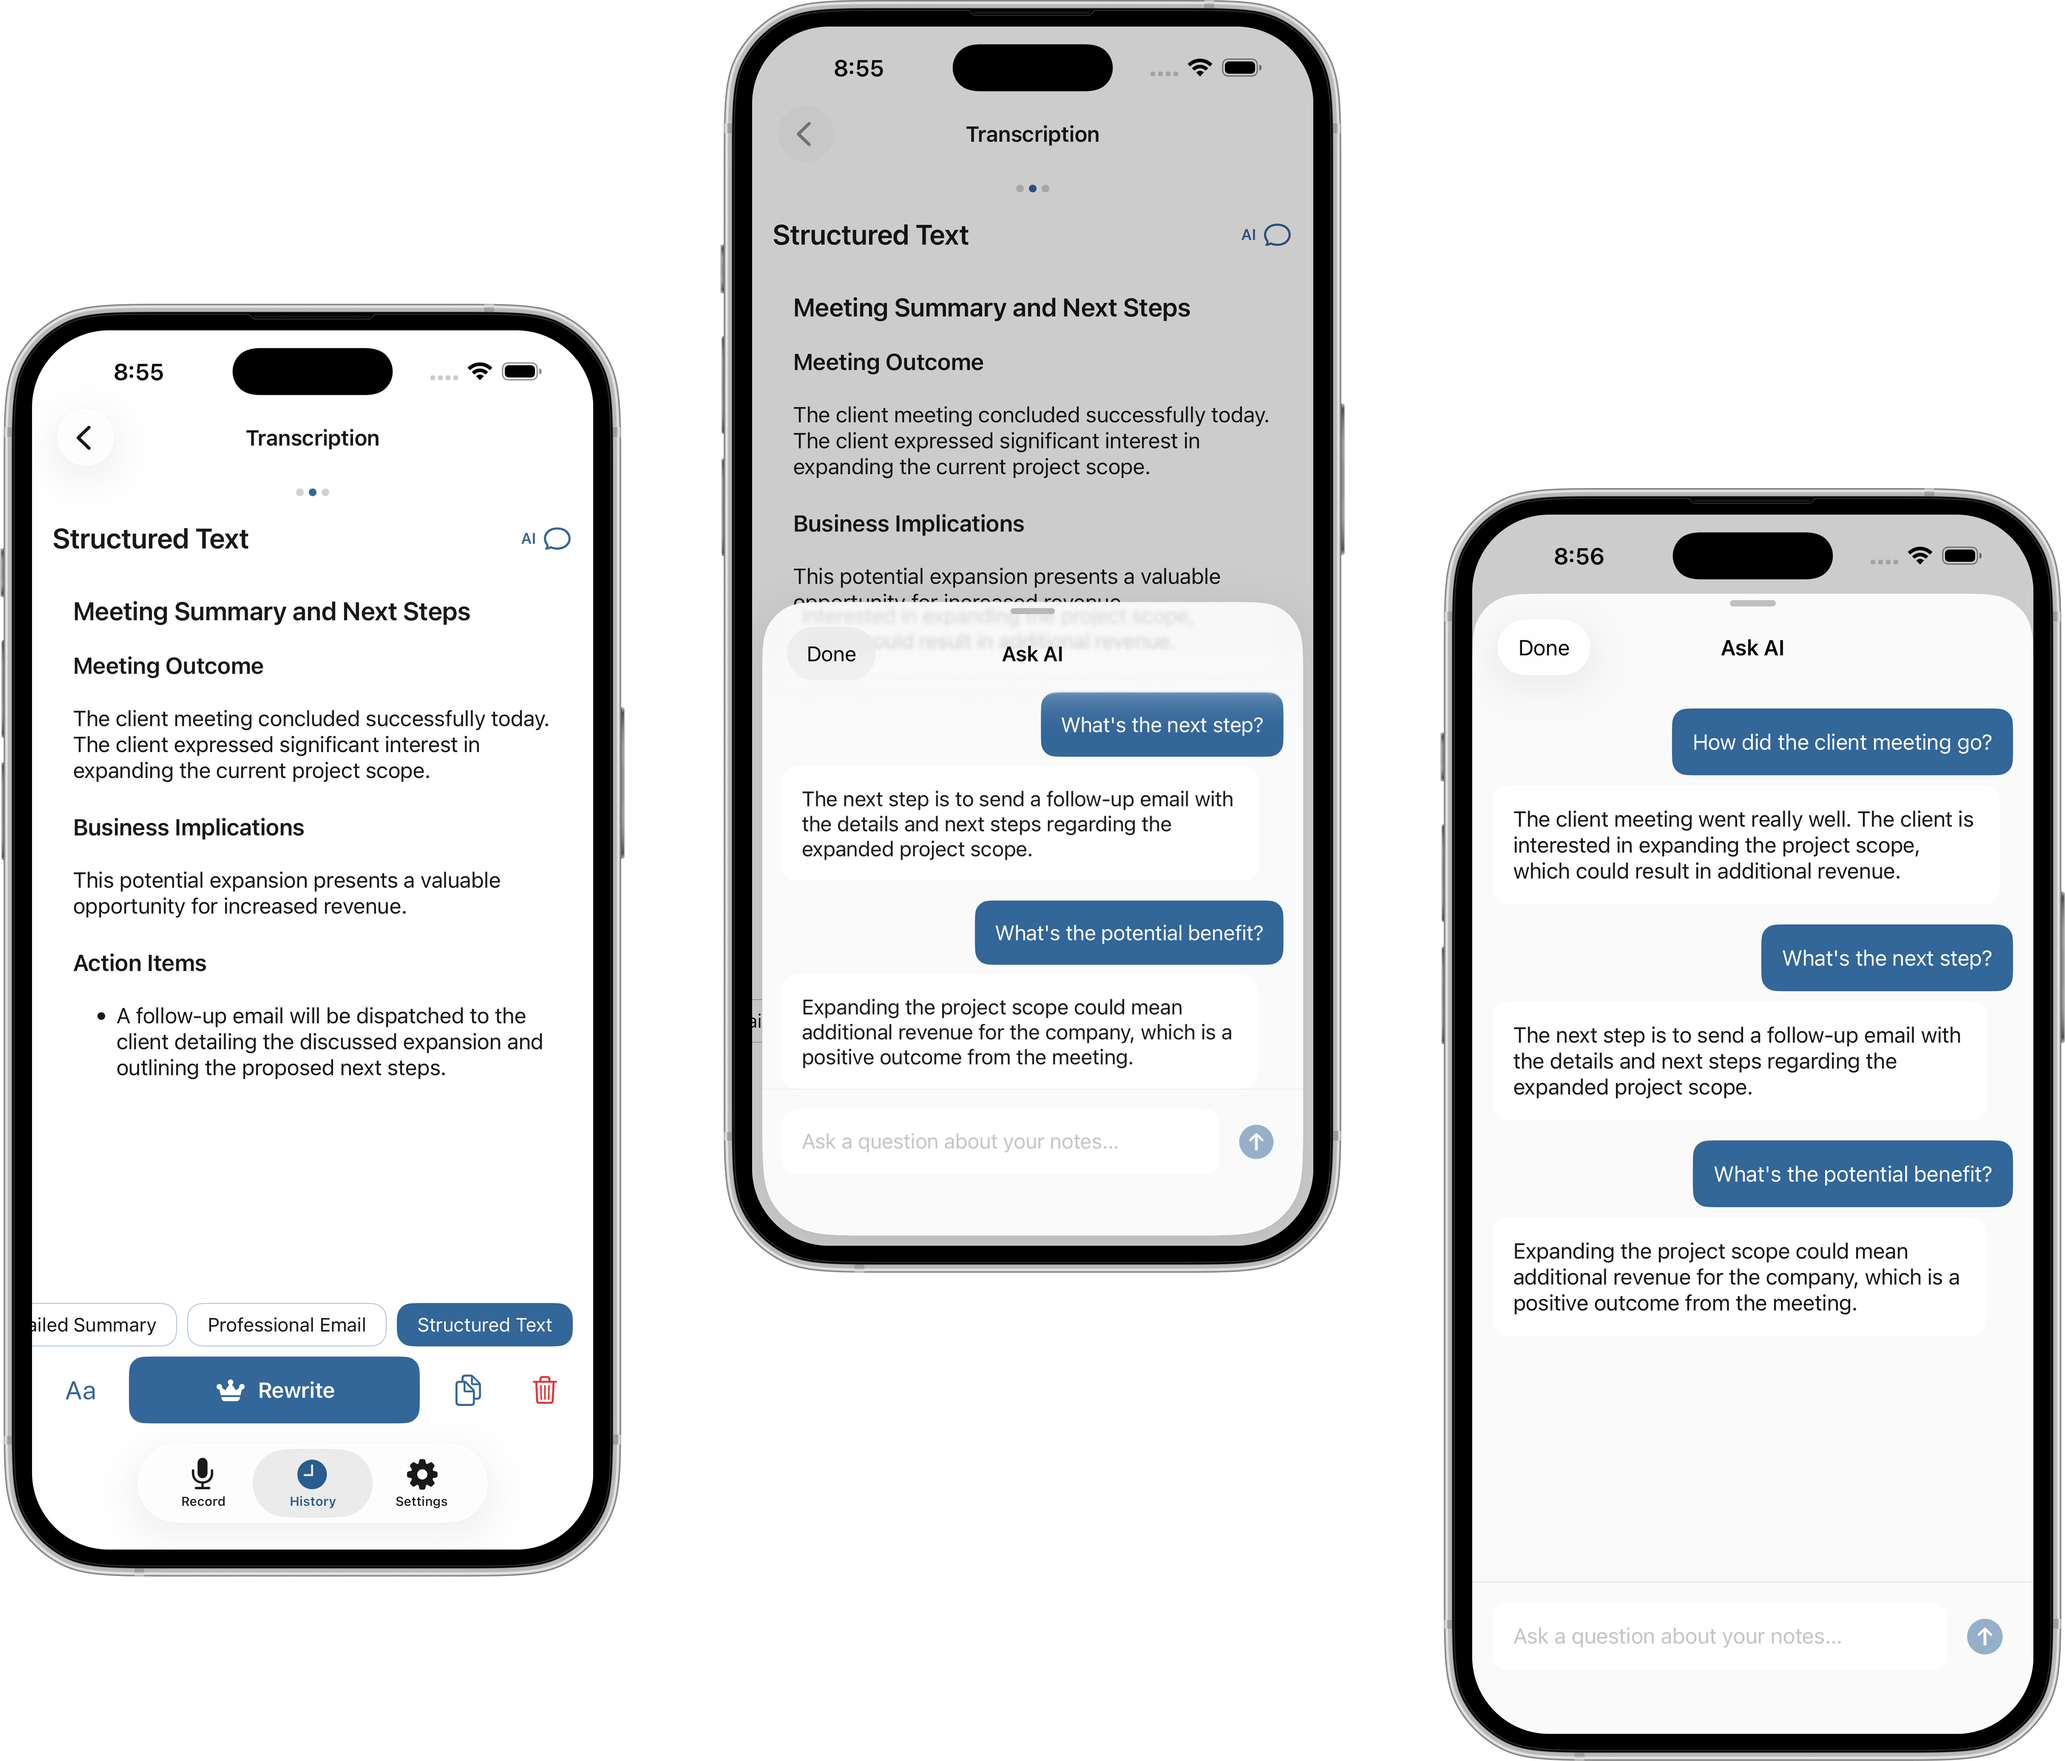
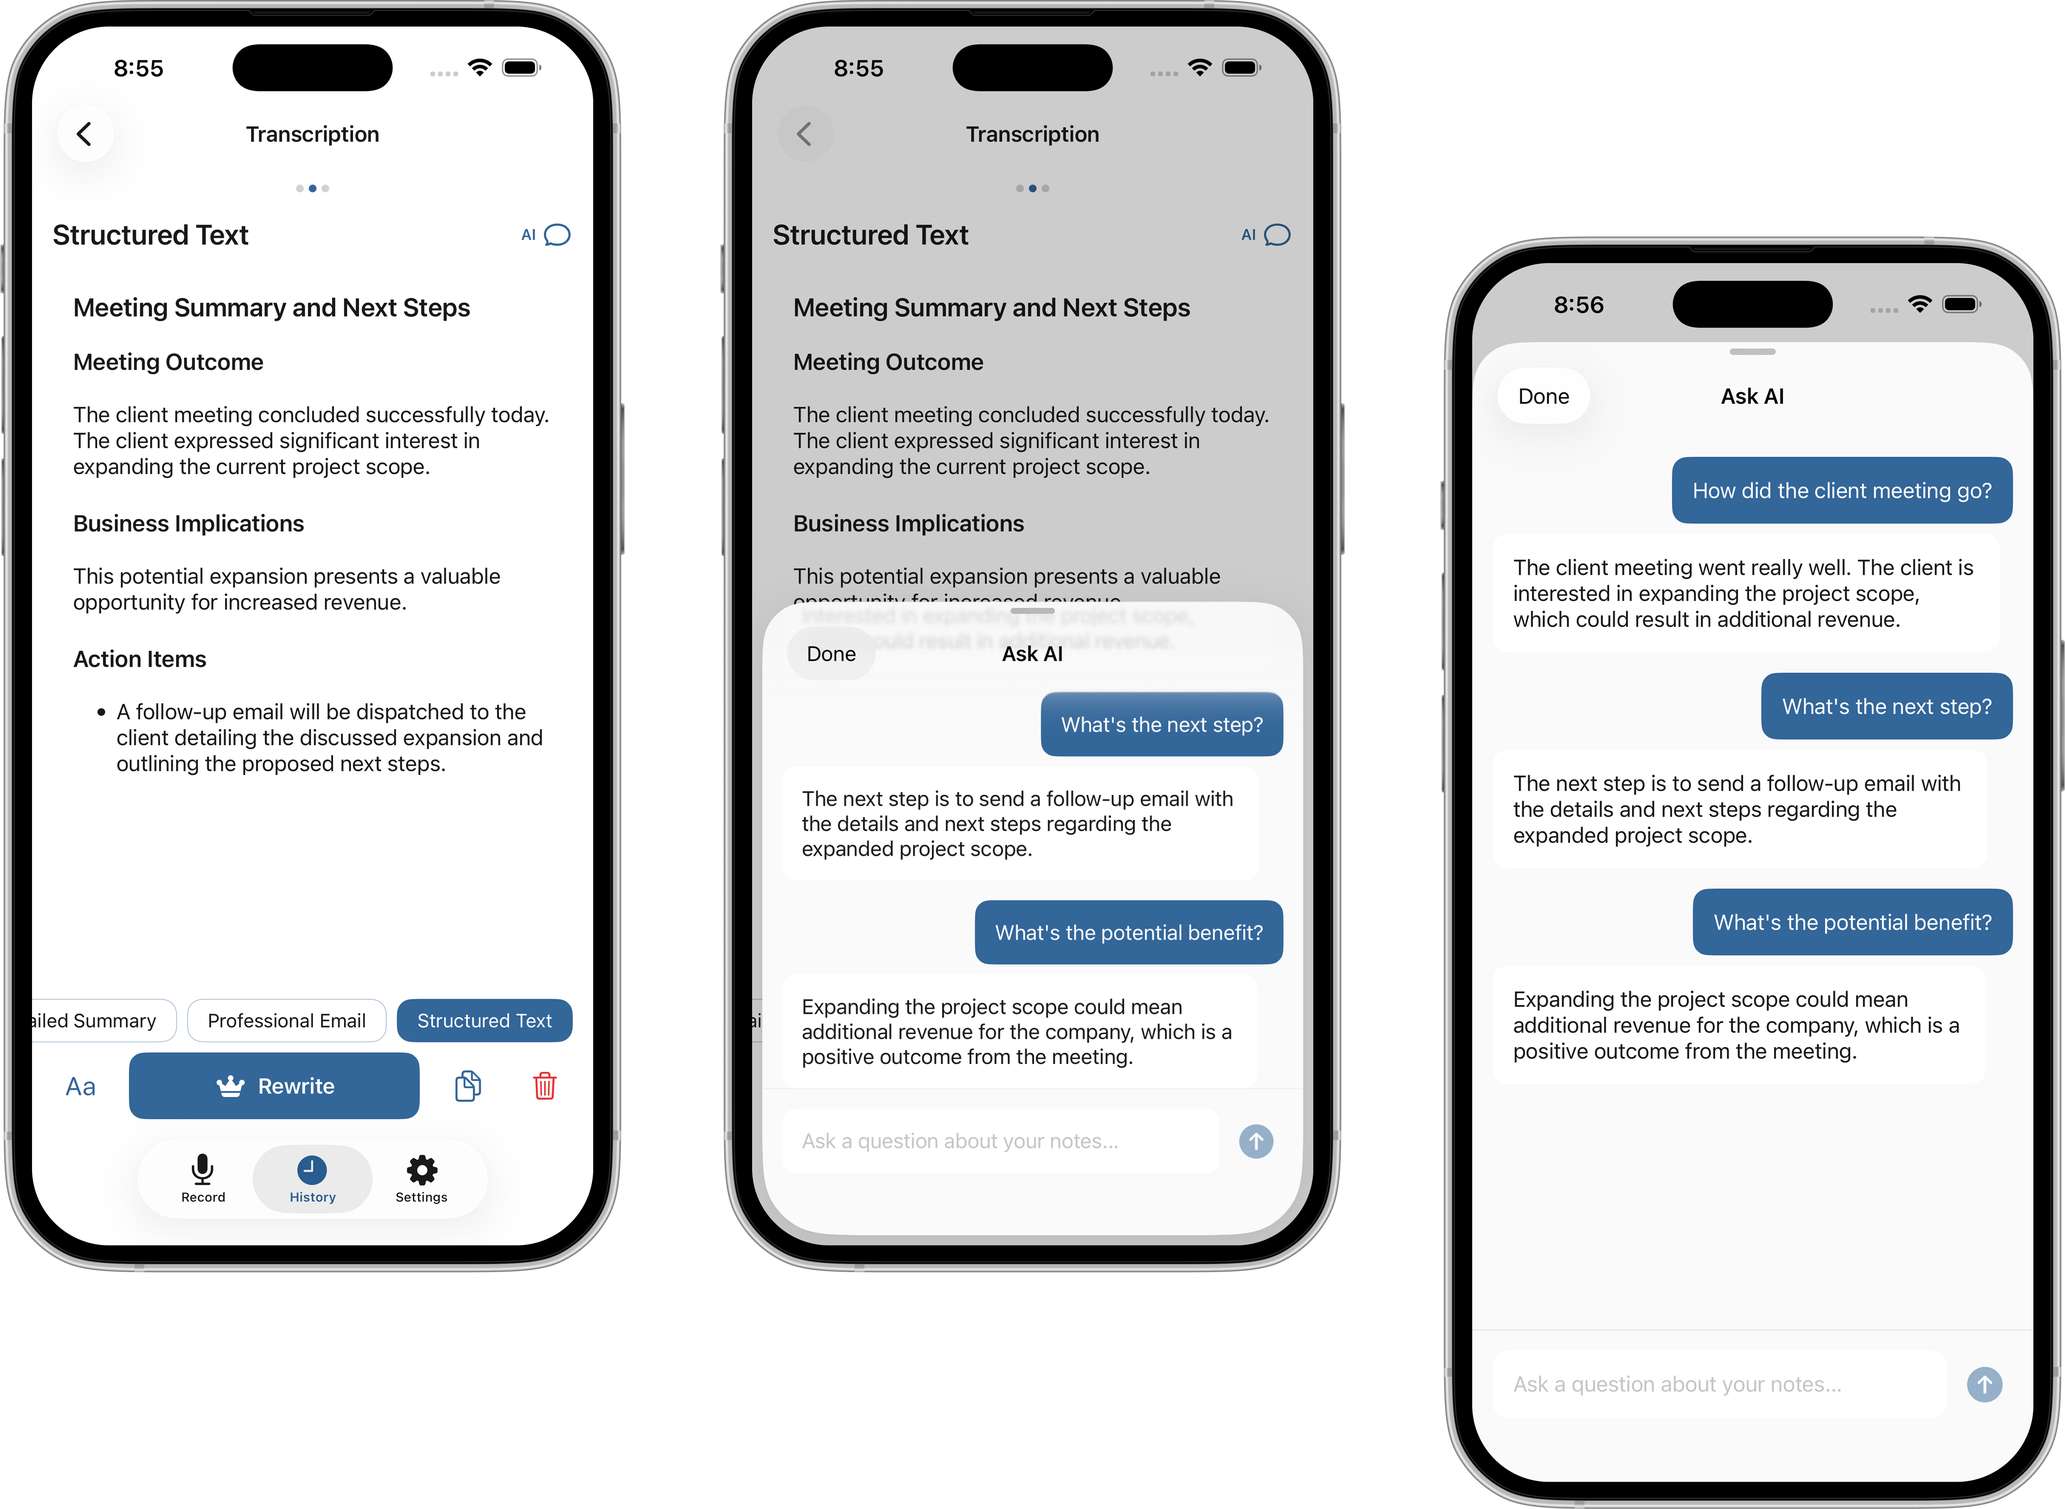
edits

diff --git a/index.html b/index.html
@@ -1536,15 +1536,15 @@
                                     </div>
                                     <div className="rounded-xl overflow-hidden relative aspect-[20/9] px-4 md:px-6 mt-4 md:mt-6" style={{ backgroundColor: '#EBEBEB' }}>
                                         <img 
-                                            src="assets/gs-assets/detailed.png" 
-                                            alt="Detailed view"
-                                            className="absolute left-8 md:left-12 top-4 md:top-8 h-[110%] object-contain"
+                                            src="assets/gs-assets/aiChat.png" 
+                                            alt="AI Chat view"
+                                            className="absolute -right-8 md:-right-12 top-2 md:top-4 h-[110%] object-contain"
                                             onLoad={(e) => e.target.classList.add('loaded')}
                                         />
-                                        <div className="absolute right-4 md:right-6 top-1/2 -translate-y-1/2 max-w-[45%] md:max-w-[40%] pr-4 md:pr-6">
-                                            <h4 className="text-base md:text-lg font-[400] mb-2" style={{ color: '#336699' }}>A faster way to access all your previous work</h4>
+                                        <div className="absolute left-4 md:left-6 top-1/2 -translate-y-1/2 max-w-[35%] md:max-w-[30%] pl-4 md:pl-6">
+                                            <h4 className="text-base md:text-lg font-[400] mb-2" style={{ color: '#336699' }}>A personal AI chat assistant</h4>
                                             <p className="text-sm md:text-base text-[#4A4A4A] opacity-70 font-[300] leading-[1.6]">
-                                                Based on the insights from the user research, I designed and developed the history page such that it was very easy to look for past work. Users also have access to everything; their original transcript, edits and all other AI rewrites. They can continue their workflow anytime from any of their devices without any hustle.
+                                                Some of our users recorded long sessions of meeting and lectures so I added a personal AI chat assistant to help them with quick answers based on questions they had about the transcript.
                                             </p>
                                         </div>
                                     </div>
